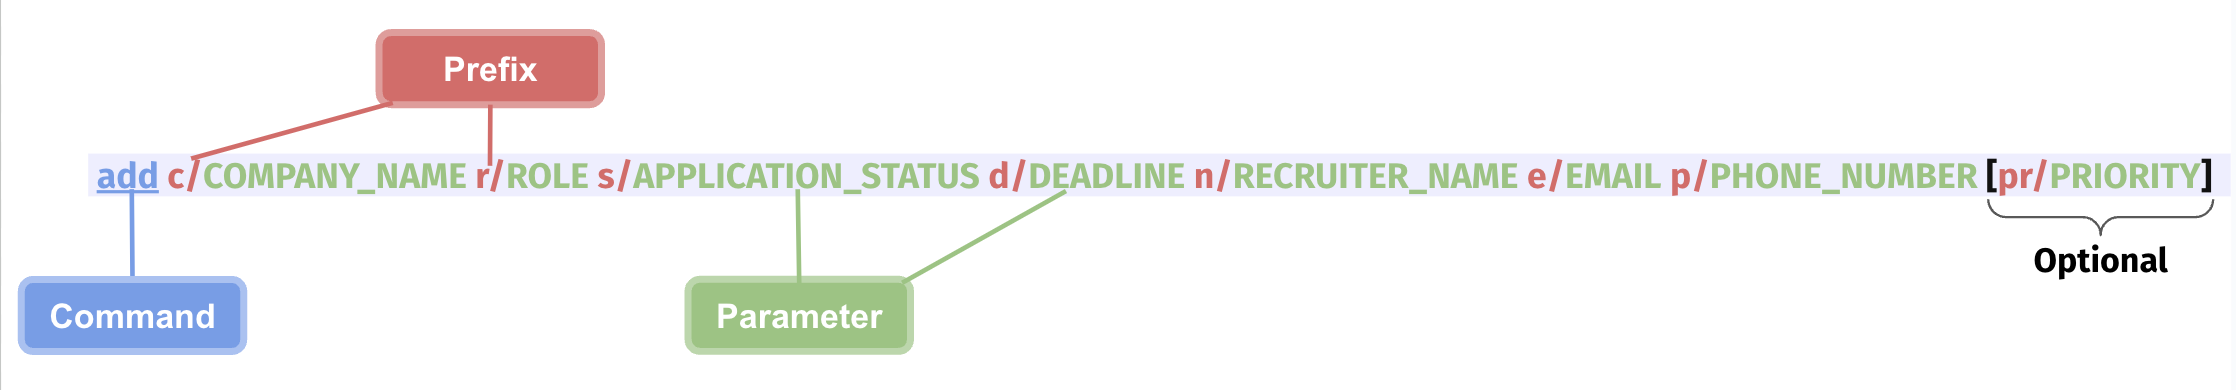
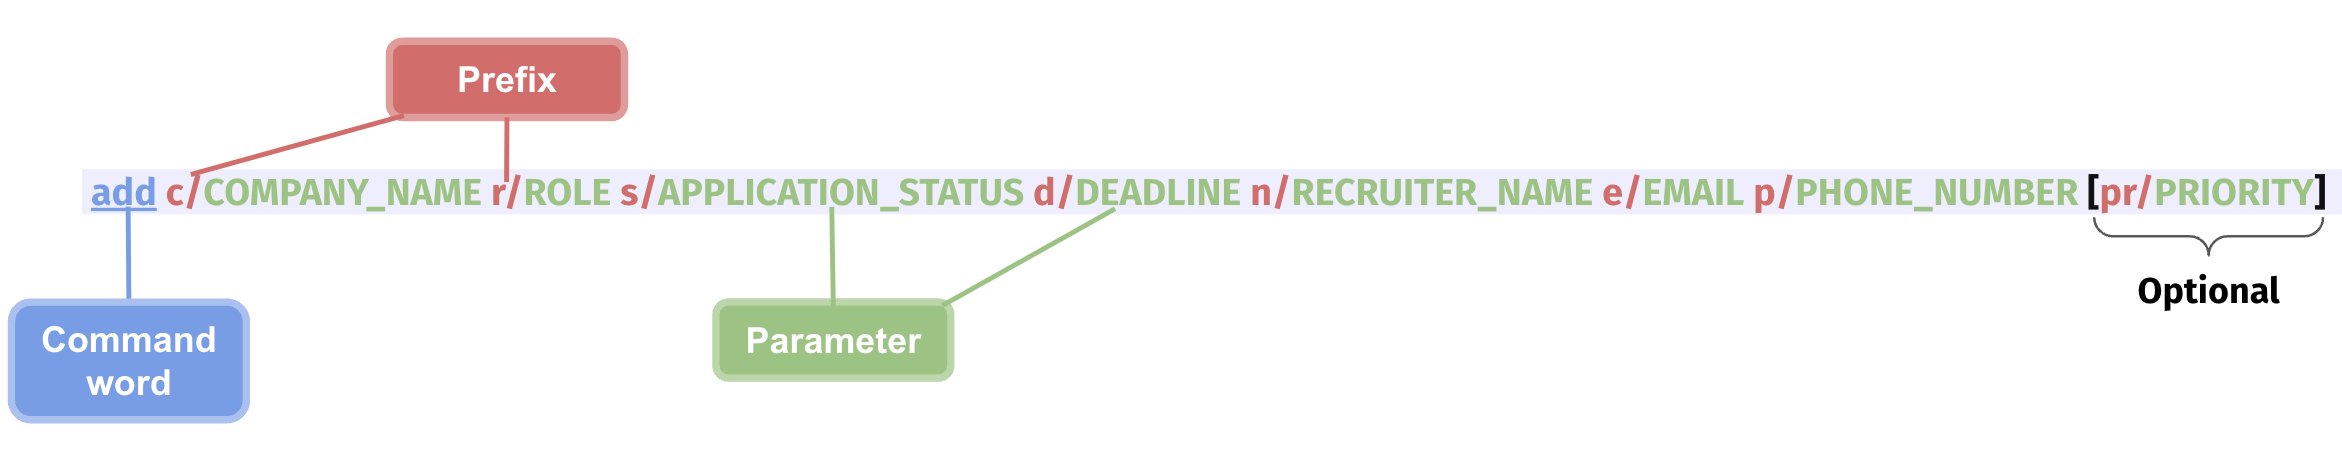
UG: edit images

Changed region(s): [[0.0, 0.0615, 1.0, 0.9231], [0.8949, 0.5538, 0.9875, 0.7077]]

diff --git a/docs/UserGuide.md b/docs/UserGuide.md
@@ -185,7 +185,7 @@ The following color code will assist you in highlighting each component for bett
 
 Let's use the [`add` command](#adding-a-company--add) format as shown below to explain the components. 
 <div style="margin-top: 10px; margin-bottom: 10px">
-    <img src="images/cli-description/CommandFormat2.png" alt="CommandFormat2" width="650"/>
+    <img src="images/cli-description/CommandFormat2.png" alt="CommandFormat2" width="750" />
 </div>
 
 The `add` command is used to initiate the adding a company into LinkMeIn. Every command line should begin with a command word to specify the desired feature.
